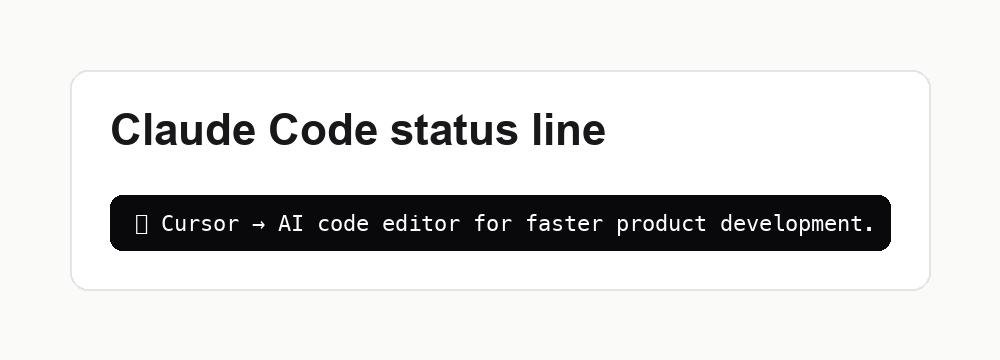
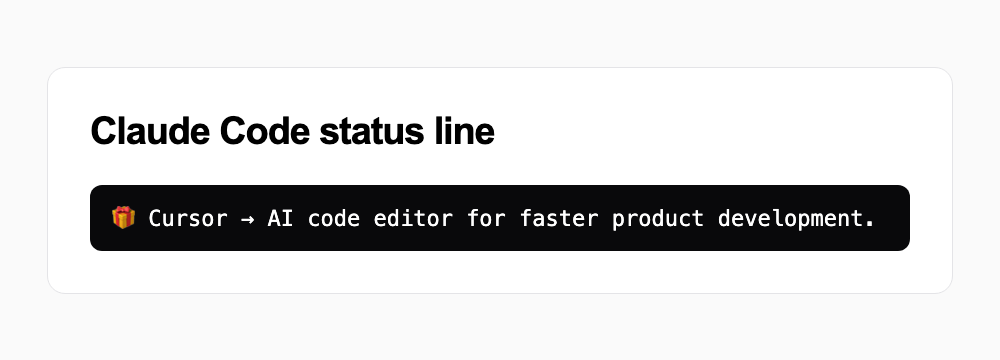
Rewrite positioning for Claude Code users

diff --git a/app/page.tsx b/app/page.tsx
@@ -39,18 +39,12 @@ export default function HomePage() {
     <main className="bg-white text-zinc-950">
       <section className="mx-auto grid min-h-screen max-w-6xl items-center gap-12 px-6 py-16 lg:grid-cols-[1fr_0.9fr]">
         <div>
-          <p className="mb-4 text-sm font-medium uppercase tracking-[0.2em] text-zinc-500">
-            VibePerks
-          </p>
           <h1 className="max-w-3xl text-5xl font-semibold tracking-tight md:text-7xl">
-            Discover useful AI tools while Claude thinks.
+            Useful AI offers in your Claude Code status line.
           </h1>
           <p className="mt-6 max-w-xl text-xl leading-8 text-zinc-600">
-            Tiny status line.
-            <br />
-            Real AI offers.
-            <br />
-            Zero distractions.
+            Discover relevant tools while Claude thinks, without opening another
+            tab.
           </p>
           <div className="mt-8 flex flex-wrap gap-3">
             <a
@@ -64,12 +58,6 @@ export default function HomePage() {
               href="https://github.com/gorbdan/-vibeperks"
             >
               GitHub
-            </a>
-            <a
-              className="rounded-md border border-zinc-300 px-5 py-3 text-sm font-medium"
-              href="mailto:[email redacted]?subject=VibePerks%20waitlist"
-            >
-              Join Waitlist
             </a>
           </div>
         </div>
@@ -156,6 +144,25 @@ export default function HomePage() {
               </div>
             ))}
           </div>
+        </div>
+      </section>
+
+      <section className="border-t border-zinc-200 bg-zinc-950 px-6 py-16 text-white">
+        <div className="mx-auto flex max-w-6xl flex-col justify-between gap-6 md:flex-row md:items-center">
+          <div>
+            <h2 className="text-3xl font-semibold tracking-tight">
+              Want early access?
+            </h2>
+            <p className="mt-3 text-zinc-300">
+              Join the waitlist for the public alpha.
+            </p>
+          </div>
+          <a
+            className="w-fit rounded-md bg-white px-5 py-3 text-sm font-medium text-zinc-950"
+            href="mailto:[email redacted]?subject=VibePerks%20waitlist"
+          >
+            Join Waitlist
+          </a>
         </div>
       </section>
 

diff --git a/README.md b/README.md
@@ -1,10 +1,52 @@
 # VibePerks
 
-VibePerks is a Vercel-ready Next.js project for showing useful AI-related perks to builders.
+[![License: MIT](https://img.shields.io/badge/license-MIT-black.svg)](LICENSE)
+![TypeScript](https://img.shields.io/badge/TypeScript-5-blue.svg)
+![Next.js](https://img.shields.io/badge/Next.js-14-black.svg)
+![Supabase](https://img.shields.io/badge/Supabase-ready-3ecf8e.svg)
+![Alpha](https://img.shields.io/badge/status-alpha-orange.svg)
 
-Current release: `v0.1.0-alpha`
+Install VibePerks to discover useful AI tools in your Claude Code status line without leaving your flow.
 
 ![VibePerks demo](public/demo.gif)
+
+## Install
+
+```bash
+npm install
+npm run dev
+```
+
+Add VibePerks to Claude Code:
+
+```json
+{
+  "statusLine": {
+    "type": "command",
+    "command": "cd /path/to/vibeperks && VIBEPERKS_API_URL=http://localhost:3000 ./node_modules/.bin/vibeperks"
+  }
+}
+```
+
+Done.
+
+## Why?
+
+- Find relevant AI tools while Claude Code is already working.
+- Keep discovery inside a tiny status line, not another tab.
+- Stay focused: one useful offer, no feed, no dashboard.
+
+## Privacy
+
+- We never read your prompts.
+- We never read your code.
+- We never send your conversations anywhere.
+
+## Screenshots
+
+![Landing page](public/screenshot-landing.png)
+
+![Claude Code status line](public/screenshot-status-line.png)
 
 ## Quick Start
 
@@ -22,17 +64,6 @@ npm run cli
 npx vibeperks --version
 ```
 
-## Screenshots
-
-![Landing page](public/screenshot-landing.png)
-
-![Claude Code status line](public/screenshot-status-line.png)
-
-## Why VibePerks
-
-VibePerks puts useful AI offers in a tiny status line while developers work.
-The goal is to make discovery feel ambient, not distracting.
-
 ## Stack
 
 - Next.js App Router
@@ -42,14 +73,6 @@ The goal is to make discovery feel ambient, not distracting.
 - ESLint
 - Prettier
 - Vercel-ready project structure
-
-## Installation
-
-Install dependencies:
-
-```bash
-npm install
-```
 
 ## Environment
 
@@ -65,21 +88,6 @@ Fill in Supabase values:
 NEXT_PUBLIC_SUPABASE_URL=https://your-project.supabase.co
 NEXT_PUBLIC_SUPABASE_ANON_KEY=your-anon-key
 ```
-
-## Development
-
-Start the project:
-
-```bash
-npm run dev
-```
-
-Open:
-
-- `http://localhost:3000`
-- `http://localhost:3000/admin`
-
-If port `3000` is busy, Next.js will print the next available local URL.
 
 ## Database
 
@@ -109,57 +117,14 @@ The seed file is:
 supabase/seed.sql
 ```
 
-## Checks
-
-Run a production build:
-
-```bash
-npm run build
-```
-
-Run ESLint:
-
-```bash
-npm run lint
-```
-
-Run TypeScript checks:
-
-```bash
-npm run typecheck
-```
-
-Check formatting:
-
-```bash
-npm run format:check
-```
-
-## Architecture
-
-- `app/` contains routes, pages, and server actions.
-- `lib/offer-repository.ts` is the only layer that queries Supabase tables.
-- `lib/supabase.ts` creates the Supabase client from shared config.
-- `lib/config.ts` centralizes environment variables.
-- `lib/api-response.ts` centralizes API success and error responses.
-- `lib/logger.ts` centralizes logging for server-side code.
-- `types/` contains shared TypeScript types.
-- `packages/cli/` contains the VibePerks CLI and its CLI-specific config.
-
-API routes should stay thin: call repositories, return shared response helpers,
-and log unexpected errors through `logger`.
-
 ## API
-
-The project includes these endpoints:
 
 - `GET /api/offer`
 - `POST /api/impression`
 - `POST /api/click`
 
-`GET /api/offer` returns one active offer from Supabase.
-
-If there is no active offer, it returns `404`.
+`GET /api/offer` returns one active offer from Supabase. If there is no active
+offer, it returns `404`.
 
 ## Admin
 
@@ -199,23 +164,6 @@ Claude Code supports a `statusLine` command in its settings. The command receive
 Claude Code session data through stdin and displays whatever the command writes to
 stdout.
 
-Install dependencies:
-
-```bash
-npm install
-```
-
-Add this to your Claude Code settings:
-
-```json
-{
-  "statusLine": {
-    "type": "command",
-    "command": "cd /path/to/vibeperks && VIBEPERKS_API_URL=http://localhost:3000 ./node_modules/.bin/vibeperks"
-  }
-}
-```
-
 For a deployed API:
 
 ```json
@@ -227,22 +175,15 @@ For a deployed API:
 }
 ```
 
-The status line output is compact:
-
-```text
-🎁 Cursor → AI code editor for faster product development.
-```
-
 ## FAQ
 
 ### Does VibePerks read my code?
 
-No. The CLI only requests `GET /api/offer` and prints a compact line.
+No.
 
 ### Does it send Claude Code prompts anywhere?
 
-No. Claude Code may pass session metadata to status line commands through stdin,
-but the current CLI does not read or forward stdin.
+No. The current CLI does not read or forward stdin.
 
 ### Do I need Supabase locally?
 
@@ -263,6 +204,29 @@ Not yet. The package metadata is prepared for a future publish step.
 - Published npm CLI package.
 - Better install flow for Claude Code users.
 
+## Development
+
+```bash
+npm run lint
+npm run typecheck
+npm run build
+npm run format:check
+```
+
+## Architecture
+
+- `app/` contains routes, pages, and server actions.
+- `lib/offer-repository.ts` is the only layer that queries Supabase tables.
+- `lib/supabase.ts` creates the Supabase client from shared config.
+- `lib/config.ts` centralizes environment variables.
+- `lib/api-response.ts` centralizes API success and error responses.
+- `lib/logger.ts` centralizes logging for server-side code.
+- `types/` contains shared TypeScript types.
+- `packages/cli/` contains the VibePerks CLI and its CLI-specific config.
+
+API routes should stay thin: call repositories, return shared response helpers,
+and log unexpected errors through `logger`.
+
 ## Release
 
 - Version: `v0.1.0-alpha`
@@ -273,47 +237,3 @@ Not yet. The package metadata is prepared for a future publish step.
 ## Contributing
 
 See `CONTRIBUTING.md`.
-
-## Project Structure
-
-```text
-/
-  docs/
-    MVP.md
-  app/
-    admin/
-    api/
-    globals.css
-    layout.tsx
-    page.tsx
-  components/
-  lib/
-    api-response.ts
-    config.ts
-    logger.ts
-    offer-repository.ts
-    supabase.ts
-  types/
-    api.ts
-    offer.ts
-    index.ts
-  public/
-  packages/
-    cli/
-      src/
-        config.js
-        index.js
-  supabase/
-    migrations/
-    seed.sql
-  scripts/
-  .env.example
-  .eslintrc.json
-  .gitignore
-  .prettierrc
-  next.config.mjs
-  package.json
-  postcss.config.mjs
-  tailwind.config.ts
-  tsconfig.json
-```